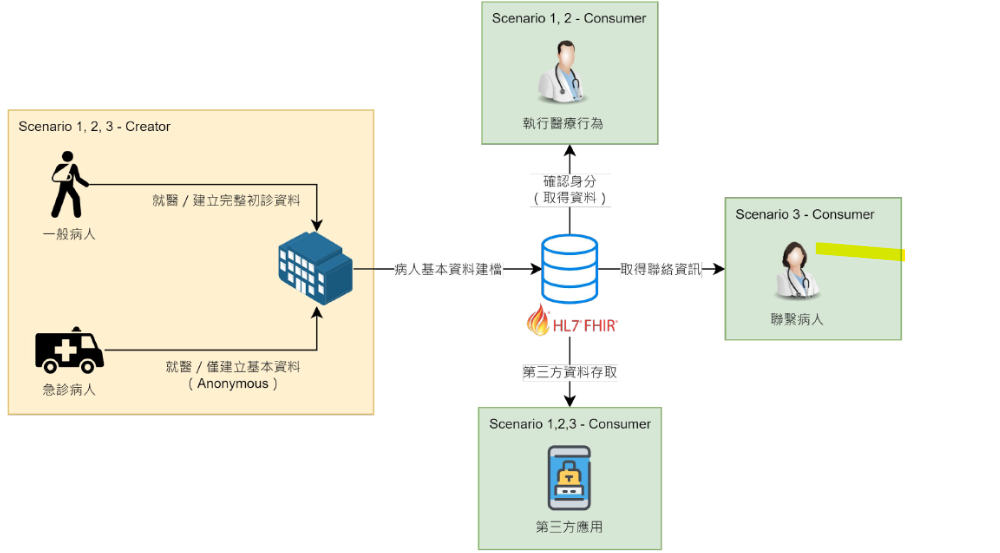
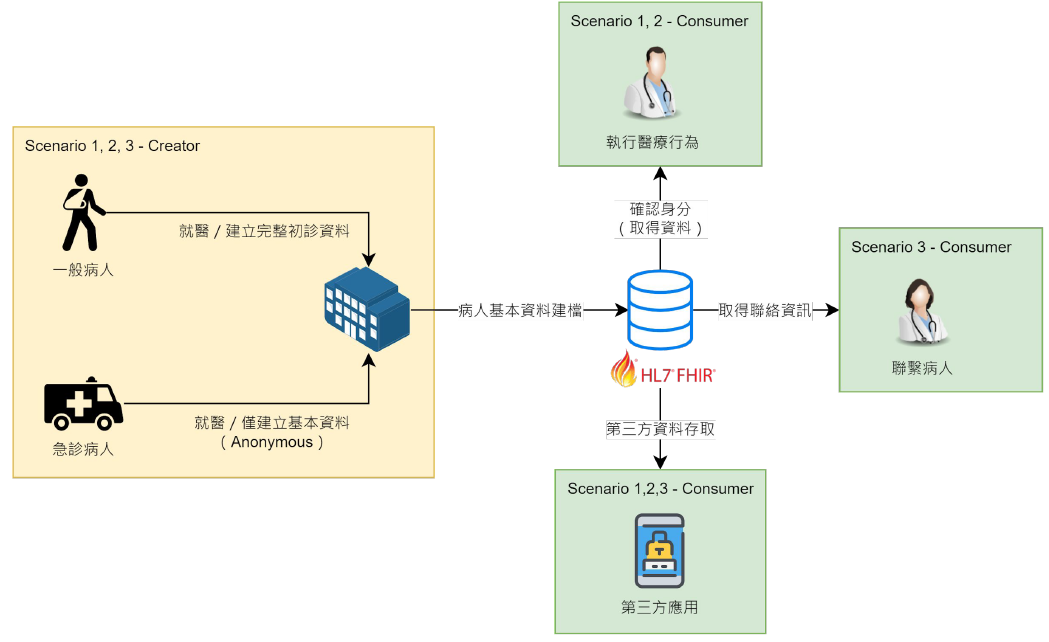
feat: 修正圖片清晰度

Changed region(s): [[0.0, 0.0, 1.0, 0.7685], [0.465, 0.6456, 0.744, 1.0]]

diff --git a/src/Components/TraksTab/contents/track8/index.js b/src/Components/TraksTab/contents/track8/index.js
@@ -27,7 +27,7 @@ const Track8_Summary_content = () => {
         API方式傳輸至保險公司的交換中心進行保險審核。完成核保後再由保險公司逕付保險費用給醫院，並且讓病人不需要代墊保險理賠金額，省去大量的時間成本。醫院也會節省核發紙本診斷證明書以及收據，保險公司也會節省人力成本，民眾也不需要先行墊付費用，已達到病患、醫院以及保險公司三贏的局面。期望能善患者的照護，提高醫療保健服務的效率，並降低醫療保健的成本。
       </p>
       <center>
-        <img src={track8_1} Width="100%" />
+        <img src={track8_1} Width="70%" />
       </center>
 
       <div width="100%">
@@ -420,7 +420,7 @@ const Track8_Specification_content = () => {
       </ol>
       <p style={h3_style}>角色與交易關係圖</p>
       <center>
-        <img src={track8_5} Width="100%" />
+        <img src={track8_5} Width="30%" />
       </center>
     </div>
   )

diff --git a/src/Components/TraksTab/contents/track7/index.js b/src/Components/TraksTab/contents/track7/index.js
@@ -883,7 +883,7 @@ const Track7_Specification_content = () => {
       <p style={h3_style}>角色與交易關係圖</p>
       <p>1. 緊急醫療救護(EMS)之角色與交易關係圖</p>
       <center>
-        <img src={track7_2} Width="70%" />
+        <img src={track7_2} Width="30%" />
       </center>
     </div>
   )

diff --git a/src/Components/TraksTab/contents/track5/index.js b/src/Components/TraksTab/contents/track5/index.js
@@ -705,7 +705,7 @@ const Track5_Specification_content = () => {
       <ul>
         <li>處方調劑與個人健康管理系統</li>
       </ul>
-      <img src={wg5_2_1} width="100%" />
+      <img src={wg5_2_1} width="30%" />
       <center>
         <img src={track5_2} Width="100%" />
       </center>

diff --git a/src/Components/TraksTab/contents/track10/index.js b/src/Components/TraksTab/contents/track10/index.js
@@ -3146,7 +3146,7 @@ const Track10_Specification_content = () => {
       </table>
       <p style={h3_style}>角色與交易關係圖</p>
       <center>
-        <img src={track10_2} Width="100%" />
+        <img src={track10_2} Width="40%" />
       </center>
     </div>
   )

diff --git a/src/Components/TraksTab/contents/track9/index.js b/src/Components/TraksTab/contents/track9/index.js
@@ -342,7 +342,7 @@ const Track9_Specification_content = () => {
       </table>
       <p style={h3_style}>角色與交易關係圖</p>
       <center>
-        <img src={track9_2} Width="100%" />
+        <img src={track9_2} Width="30%" />
       </center>
     </div>
   )

diff --git a/src/Components/TraksTab/contents/track1/index.js b/src/Components/TraksTab/contents/track1/index.js
@@ -717,7 +717,7 @@ const Track1_Specification_content = () => {
             </strong>
           </li>
         </ol>
-        <img src={track1_4} width="100%" />
+        <img src={track1_4} width="70%" />
       </div>
     </div>
   )
